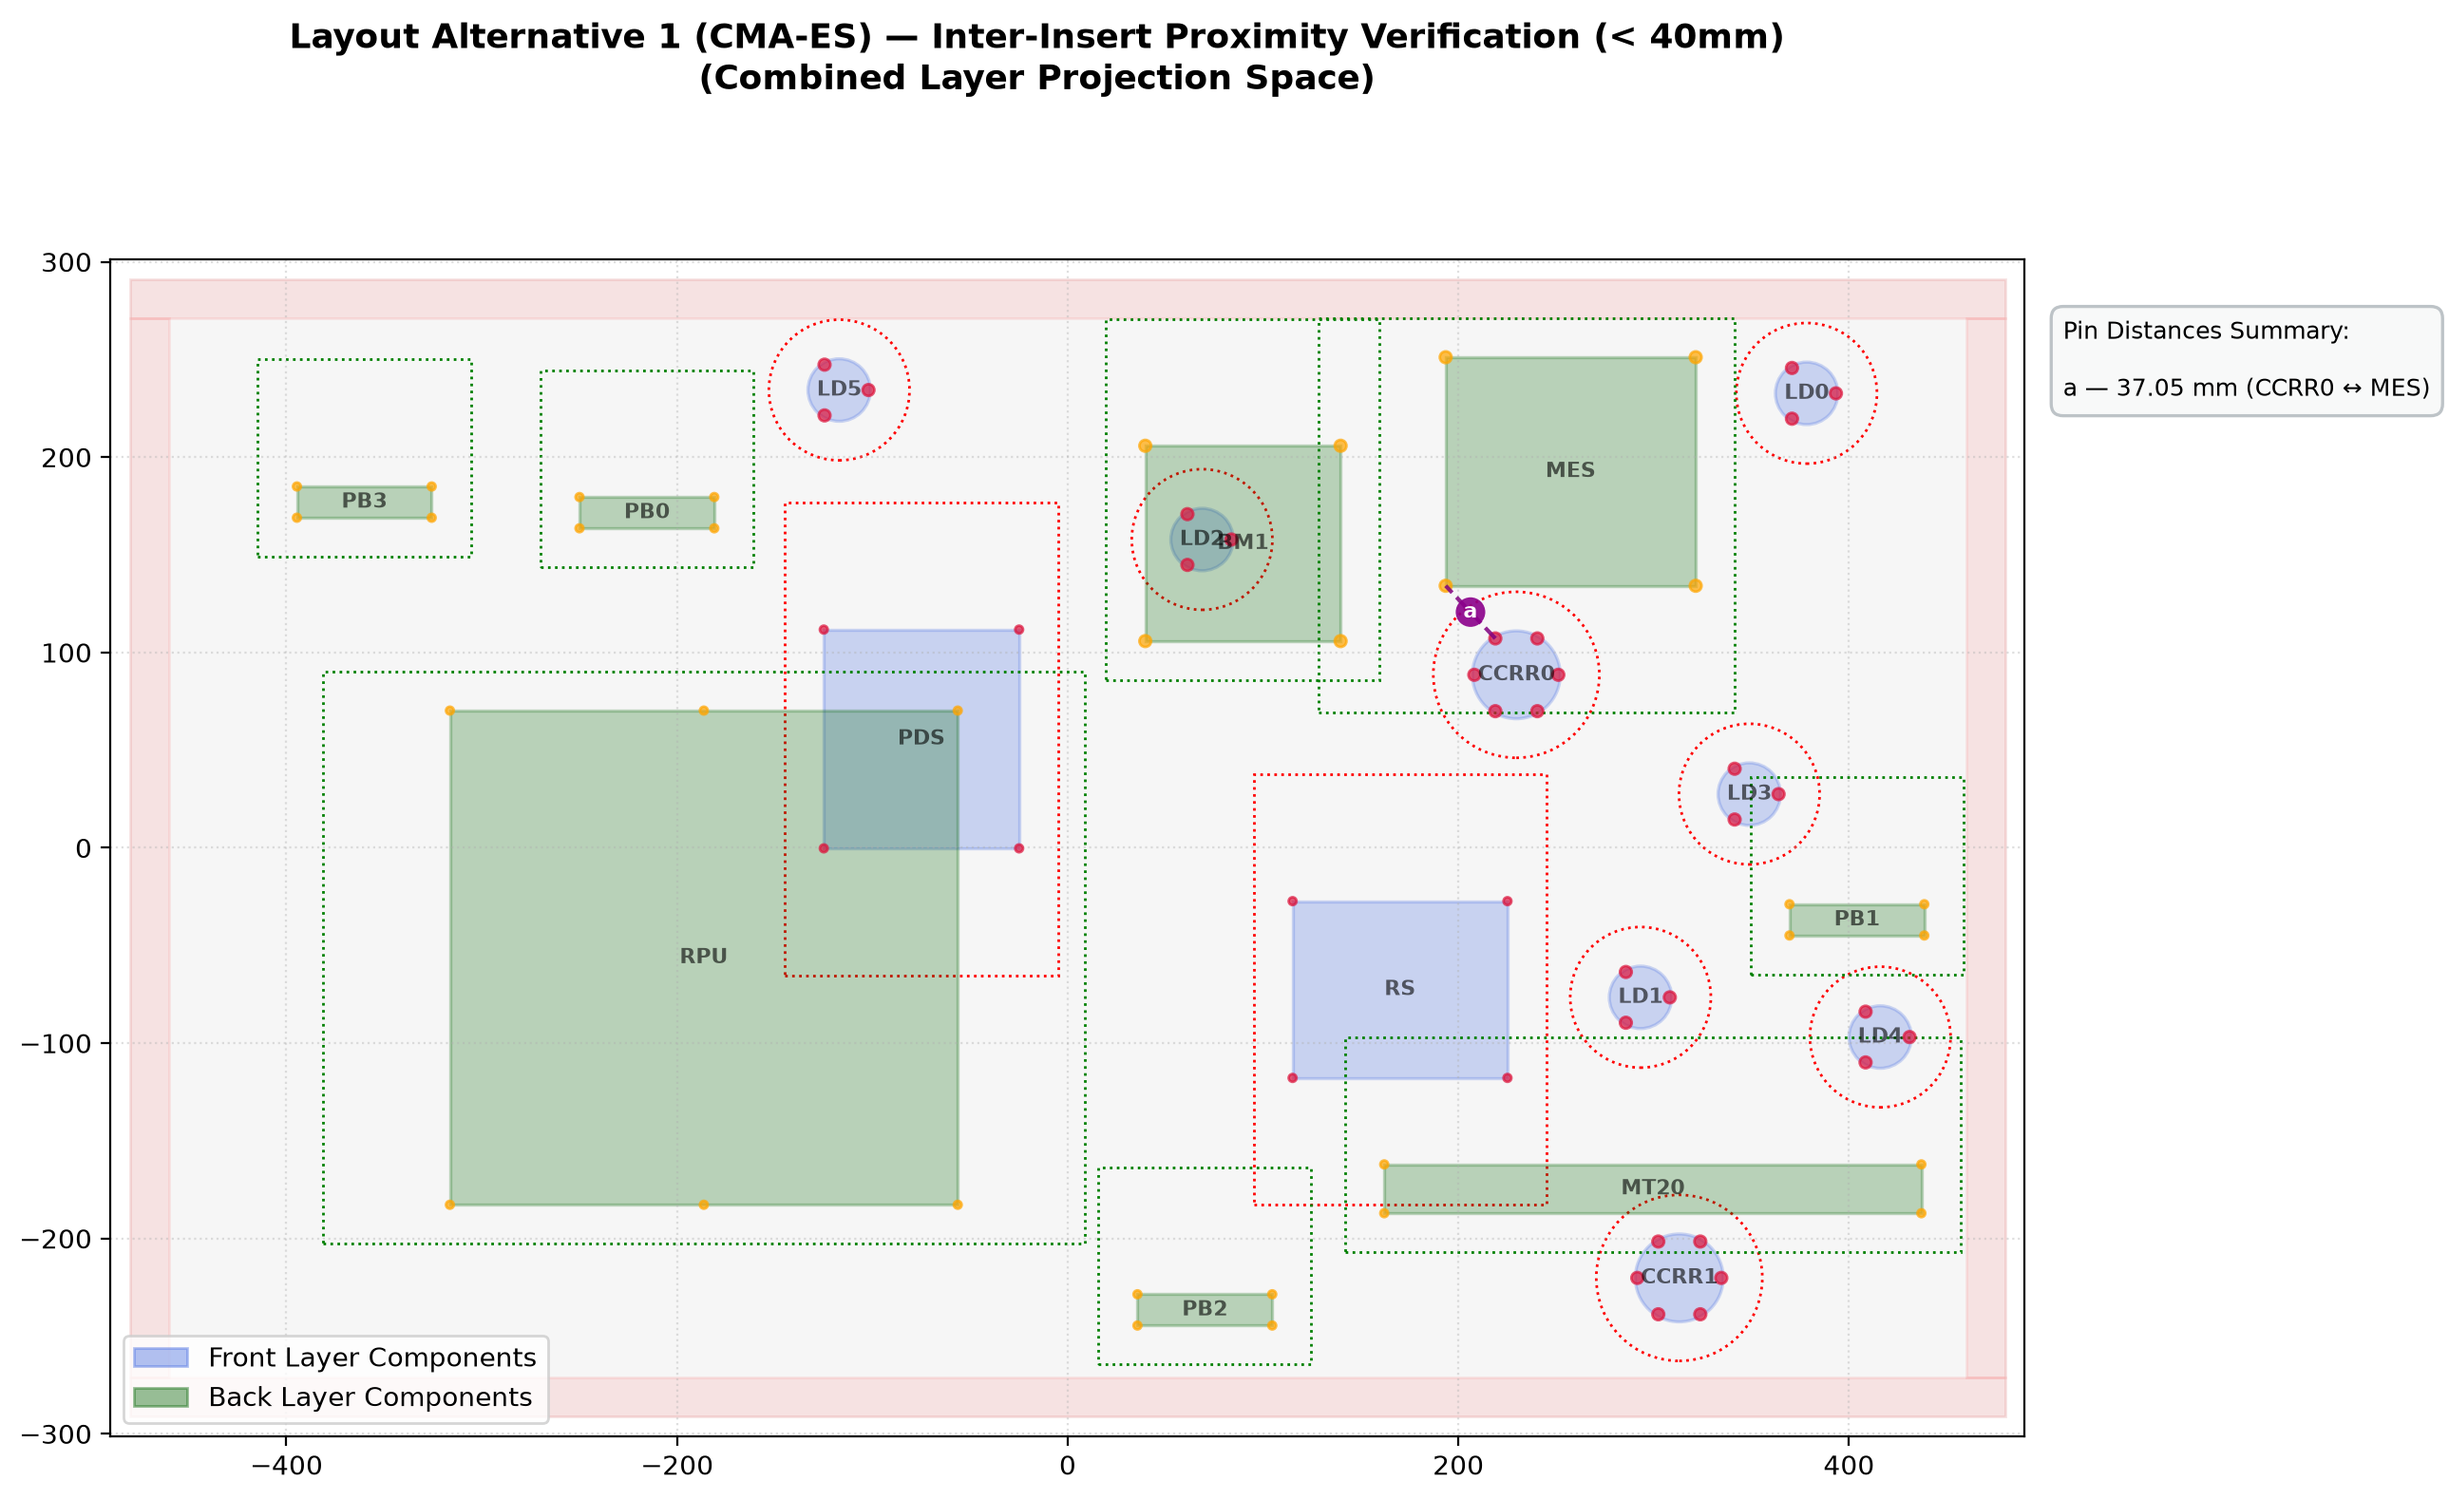
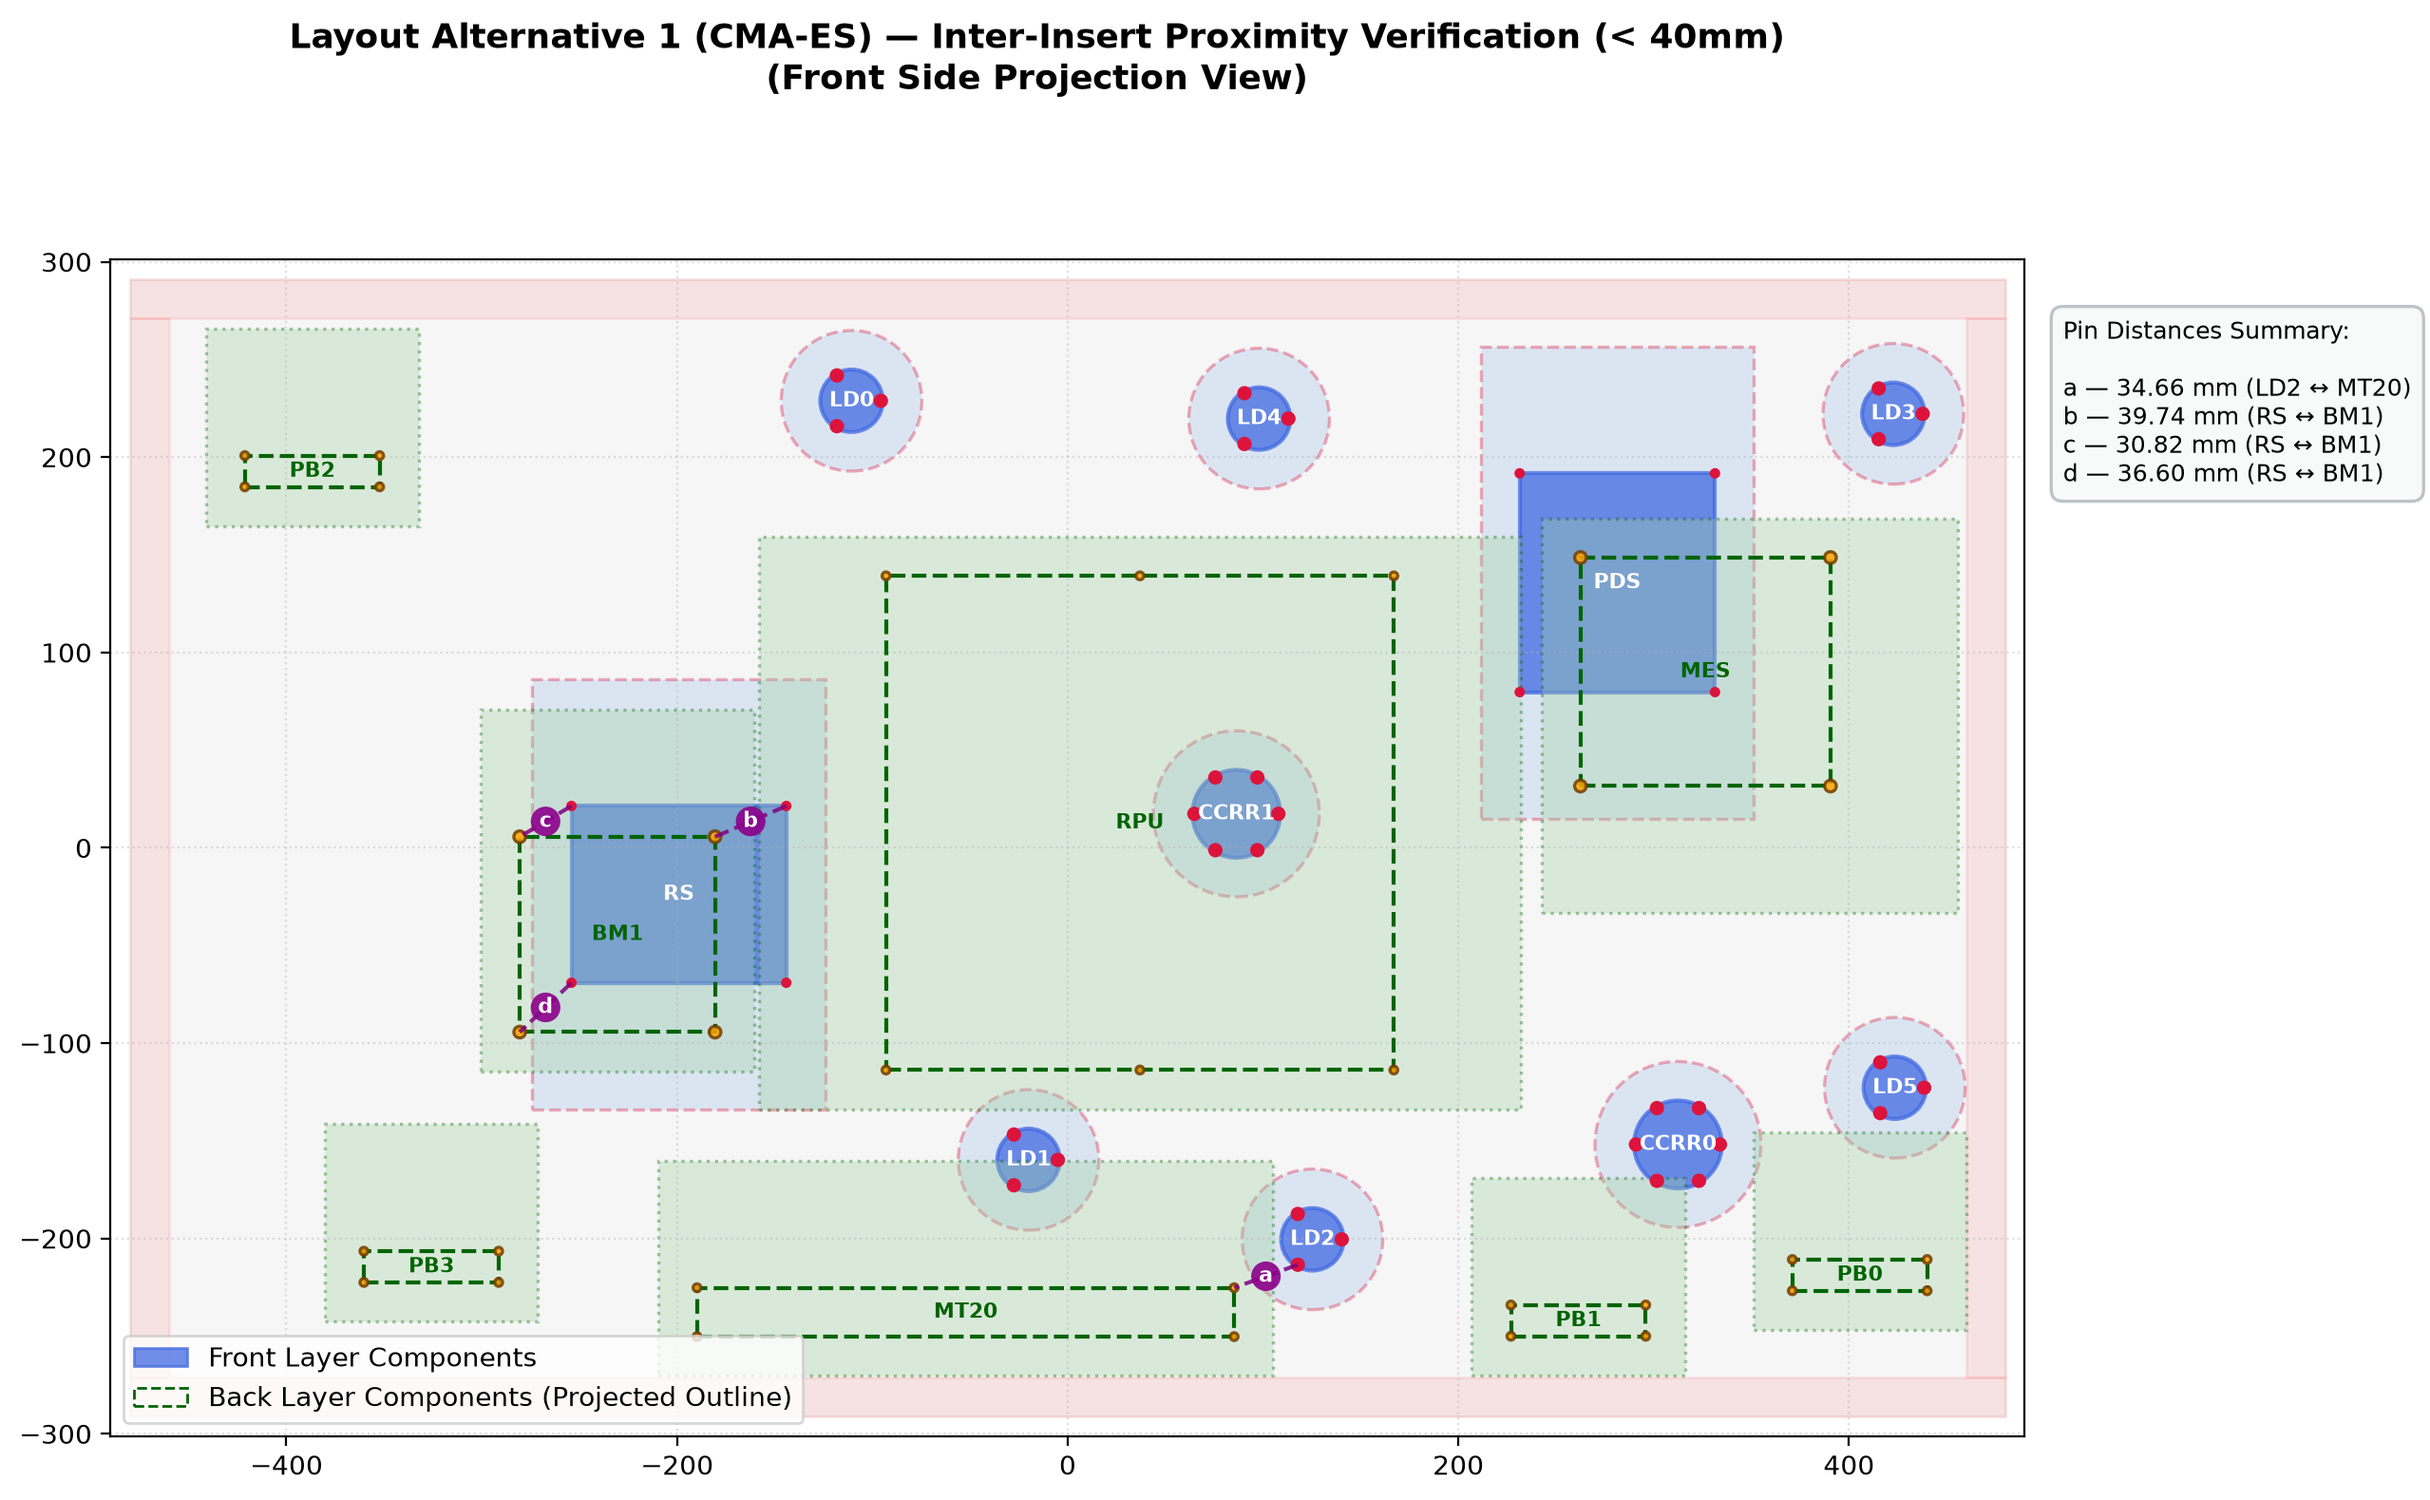
need to do sep column and x flip

diff --git a/CMA-ES/new.py b/CMA-ES/new.py
@@ -627,7 +627,7 @@ def run_optimization():
             final_cg_x = np.sum(abs_x_positions * masses) / total_mass
             final_cg_y = np.sum(cy_v * masses) / total_mass
             
-            # ---------------- IMAGE 1: STANDARD LAYOUT REPORT ----------------
+            # ---------------- IMAGE 1: STANDARD LAYOUT REPORT (UNTOUCHED) ----------------
             fig = plt.figure(figsize=(16, 9))
             gs = fig.add_gridspec(2, 2, height_ratios=[7, 2.2], hspace=0.25)
             
@@ -737,57 +737,78 @@ def run_optimization():
             plt.savefig(main_layout_path, dpi=200, bbox_inches='tight')
             plt.close(fig)
 
-            # ---------------- IMAGE 2: CLEARANCE & DISTANCE PROXIMITY ENGINE ----------------
+            # ---------------- IMAGE 2: DISTANCE PROXIMITY MAPPING (FRONT SIDE PROJECTION) ----------------
             fig_c, ax_c = plt.subplots(figsize=(13, 9))
-            fig_c.suptitle(f"Layout Alternative {layout_idx} (CMA-ES) — Inter-Insert Proximity Verification (< 40mm)\n(Combined Layer Projection Space)", 
+            fig_c.suptitle(f"Layout Alternative {layout_idx} (CMA-ES) — Inter-Insert Proximity Verification (< 40mm)\n(Front Side Projection View)", 
                            fontsize=13, fontweight='bold')
             
+            # Draw board outline and border keepout region
             ax_c.add_patch(plt.Rectangle((-panel_width/2, -panel_height/2), panel_width, panel_height, color='lightgray', alpha=0.2))
             ax_c.add_patch(plt.Rectangle((-panel_width/2, panel_height/2 - border_spacing), panel_width, border_spacing, color='red', alpha=0.08))
             ax_c.add_patch(plt.Rectangle((-panel_width/2, -panel_height/2), panel_width, border_spacing, color='red', alpha=0.08))
             ax_c.add_patch(plt.Rectangle((-panel_width/2, -panel_height/2 + border_spacing), border_spacing, panel_height - 2*border_spacing, color='red', alpha=0.08))
             ax_c.add_patch(plt.Rectangle((panel_width/2 - border_spacing, -panel_height/2 + border_spacing), border_spacing, panel_height - 2*border_spacing, color='red', alpha=0.08))
 
+            # Plot components, clearance boxes, and insert hole pins projected onto Front Side Perspective
             for i in range(num_elements):
                 i_start = offset_indices[i]
                 ins_rad = insert_diams[i] / 2.0
-                
-                ex = cx_v[i] if not is_back_side[i] else -cx_v[i]
                 ey = cy_v[i]
                 c_top, c_right, c_bot, c_left = clearance_dirs[i]
 
+                # Draw FRONT-SIDE components (Solid Blue Body + Light Blue Dashed Clearance Box + Crimson Pins)
                 if not is_back_side[i]:
+                    ex = cx_v[i]
                     if element_shapes[i] == 'rectangle':
                         c_x = ex - lengths[i]/2.0 - c_left
                         c_y = ey - widths[i]/2.0 - c_bot
                         c_w = lengths[i] + c_left + c_right
                         c_h = widths[i] + c_top + c_bot
-                        ax_c.add_patch(plt.Rectangle((c_x, c_y), c_w, c_h, fill=False, edgecolor='red', linestyle=':', linewidth=1.0))
-                        ax_c.add_patch(plt.Rectangle((ex - lengths[i]/2, ey - widths[i]/2), lengths[i], widths[i], color='royalblue', alpha=0.25, edgecolor='navy', linewidth=1.2))
+                        # Dashed clearance box
+                        ax_c.add_patch(plt.Rectangle((c_x, c_y), c_w, c_h, facecolor='#A9C7EB', edgecolor='crimson', linestyle='--', linewidth=1.2, alpha=0.35))
+                        # Solid body
+                        ax_c.add_patch(plt.Rectangle((ex - lengths[i]/2, ey - widths[i]/2), lengths[i], widths[i], color='royalblue', alpha=0.75, edgecolor='navy', linewidth=1.5))
                     else:
-                        ax_c.add_patch(plt.Circle((ex, ey), lengths[i]/2 + clearance, fill=False, edgecolor='red', linestyle=':', linewidth=1.0))
-                        ax_c.add_patch(plt.Circle((ex, ey), lengths[i]/2, color='royalblue', alpha=0.25, edgecolor='navy', linewidth=1.2))
+                        # Circular clearance and body
+                        ax_c.add_patch(plt.Circle((ex, ey), lengths[i]/2 + clearance, facecolor='#A9C7EB', edgecolor='crimson', linestyle='--', linewidth=1.2, alpha=0.35))
+                        ax_c.add_patch(plt.Circle((ex, ey), lengths[i]/2, color='royalblue', alpha=0.75, edgecolor='navy', linewidth=1.5))
                     
+                    # Draw front mounting pin insert holes
                     for ii in range(offset_counts[i]):
                         dx, dy = flat_offsets[i_start + ii]
-                        ax_c.add_patch(plt.Circle((ex + dx, ey + dy), ins_rad, color='crimson', alpha=0.7, zorder=4))
+                        ax_c.add_patch(plt.Circle((ex + dx, ey + dy), ins_rad, color='crimson', zorder=4))
+                        
+                    # Component Name label
+                    ax_c.text(ex, ey, element_names[i], color='white', ha='center', va='center', fontsize=8, fontweight='bold', zorder=5)
+
+                # Draw BACK-SIDE components projected onto Front View (Dotted Outline + Light Green Clearance + Orange Pins)
                 else:
-                    if element_shapes[i] == 'rectangle':
-                        c_x = ex - lengths[i]/2.0 - c_left
-                        c_y = ey - widths[i]/2.0 - c_bot
-                        c_w = lengths[i] + c_left + c_right
-                        c_h = widths[i] + c_top + c_bot
-                        ax_c.add_patch(plt.Rectangle((c_x, c_y), c_w, c_h, fill=False, edgecolor='green', linestyle=':', linewidth=1.0))
-                        ax_c.add_patch(plt.Rectangle((ex - lengths[i]/2, ey - widths[i]/2), lengths[i], widths[i], color='darkgreen', alpha=0.25, edgecolor='darkslategrey', linewidth=1.2))
-                    else:
-                        ax_c.add_patch(plt.Circle((ex, ey), lengths[i]/2 + clearance, fill=False, edgecolor='green', linestyle=':', linewidth=1.0))
-                        ax_c.add_patch(plt.Circle((ex, ey), lengths[i]/2, color='darkgreen', alpha=0.25, edgecolor='darkslategrey', linewidth=1.2))
+                    # In Front view projection, Back component center is mirrored (-cx_v[i])
+                    ex = -cx_v[i]
+                    # Swap left and right clearances for front projection
+                    c_left_proj, c_right_proj = c_right, c_left
                     
+                    if element_shapes[i] == 'rectangle':
+                        c_x = ex - lengths[i]/2.0 - c_left_proj
+                        c_y = ey - widths[i]/2.0 - c_bot
+                        c_w = lengths[i] + c_left_proj + c_right_proj
+                        c_h = widths[i] + c_top + c_bot
+                        # Dashed clearance box for back component
+                        ax_c.add_patch(plt.Rectangle((c_x, c_y), c_w, c_h, facecolor='#A3D1A3', edgecolor='darkgreen', linestyle=':', linewidth=1.2, alpha=0.35))
+                        # Dotted outline for back component body
+                        ax_c.add_patch(plt.Rectangle((ex - lengths[i]/2, ey - widths[i]/2), lengths[i], widths[i], fill=False, linestyle='--', edgecolor='darkgreen', linewidth=1.5, zorder=3))
+                    else:
+                        # Circular clearance and body for back component
+                        ax_c.add_patch(plt.Circle((ex, ey), lengths[i]/2 + clearance, facecolor='#A3D1A3', edgecolor='darkgreen', linestyle=':', linewidth=1.2, alpha=0.35))
+                        ax_c.add_patch(plt.Circle((ex, ey), lengths[i]/2, fill=False, linestyle='--', edgecolor='darkgreen', linewidth=1.5, zorder=3))
+                    
+                    # Draw back mounting pin insert holes mirrored to Front View projection space
                     for ii in range(offset_counts[i]):
                         dx, dy = flat_offsets[i_start + ii]
-                        ax_c.add_patch(plt.Circle((ex - dx, ey + dy), ins_rad, color='orange', alpha=0.7, zorder=4))
-                
-                ax_c.text(ex, ey, element_names[i], color='black', alpha=0.6, ha='center', va='center', fontsize=8, fontweight='bold', zorder=5)
+                        ax_c.add_patch(plt.Circle((ex - dx, ey + dy), ins_rad, facecolor='orange', edgecolor='#733D00', linewidth=1.2, alpha=0.85, zorder=4))
+                        
+                    # Component Name label for back component
+                    ax_c.text(ex, ey, element_names[i], color='darkgreen', ha='center', va='center', fontsize=8, fontweight='bold', zorder=5)
 
             close_pairs_labels = []
             label_counter = 0
@@ -836,8 +857,9 @@ def run_optimization():
                           transform=ax_c.transAxes, fontsize=9, verticalalignment='top',
                           bbox=dict(boxstyle="round,pad=0.5", fc="#F8F9F9", ec="#BDC3C7", lw=1.2))
 
-            front_patch = mpatches.Patch(color='royalblue', alpha=0.4, label='Front Layer Components')
-            back_patch = mpatches.Patch(color='darkgreen', alpha=0.4, label='Back Layer Components')
+            # Visual color legend key
+            front_patch = mpatches.Patch(color='royalblue', alpha=0.75, label='Front Layer Components')
+            back_patch = mpatches.Patch(facecolor='none', edgecolor='darkgreen', linestyle='--', label='Back Layer Components (Projected Outline)')
             ax_c.legend(handles=[front_patch, back_patch], loc='lower left')
 
             ax_c.set_xlim(-panel_width/2 - 10, panel_width/2 + 10)
